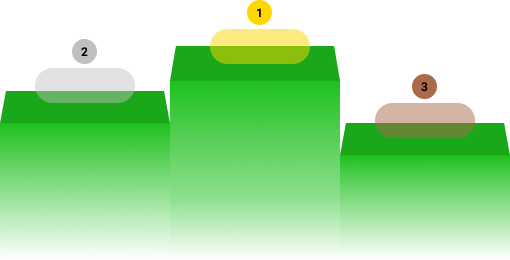
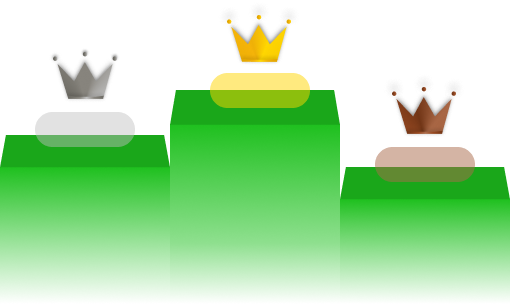
add  crown and medal in leaderboard

diff --git a/src/components/Organisms/leaderBoardReff/index.js b/src/components/Organisms/leaderBoardReff/index.js
@@ -1,57 +1,67 @@
 import React from "react";
 import charts from "../../../assets/charts.png";
+import Gold from "../../../assets/Gold.svg";
+import Silver from "../../../assets/Silver.svg";
+import Bronze from "../../../assets/Bronze.svg";
 
 function LeaderBoardReff() {
   return (
     <div className="max-w-sm mr-0  sm:flex-row sm:flex sm:justify-between sm:max-w-full sm:py-16 sm:px-8 py-4 px-4 sm:space-x-4">
       <div
-        className=" mb-12 flex-1 sm:ml-3 sm:mt-16 relative"
+        className=" flex-1  sm:ml-3  mb-12 sm:mb-0 relative"
         // style={{ position: "relative" }}
       >
-        <img src={charts} alt="charts" />
+        <img
+          src={charts}
+          alt="charts"
+          // className="flex flex-wrap content-center"
+        />
         <p
-          className="text-xs font-bold dark:text-white sm:text-sm text-black absolute top-12 mt-1 left-10 sm:left-14 sm:top-16 sm:mt-3 "
+          className="text-xs font-bold dark:text-white sm:text-sm text-black absolute top-12 mt-1 left-10 sm:left-14 sm:top-24 sm:mt-6 "
           // style={{ top: "4.8rem" }}
         >
+          ID-90800
+        </p>
+        <p className="text-xs font-bold dark:text-white sm:text-sm left-40 top-6 text-black absolute sm:top-20 sm:left-52 sm:ml-7 ">
           ID-9080
         </p>
-        <p className="text-xs font-bold dark:text-white sm:text-sm left-40 top-6 text-black absolute sm:top-9 sm:left-52 sm:ml-7 ">
-          ID-9080
-        </p>
-        <p className="text-xs font-bold dark:text-white sm:text-sm top-16 mt-3 right-10 text-black absolute sm:top-28 sm:right-44 sm:mr-1 sm:mt-0">
+        <p className="text-xs font-bold dark:text-white sm:text-sm top-16 mt-3 right-10 text-black absolute sm:top-36 sm:right-28 sm:mr-2 sm:mt-3">
           ID-9080
         </p>
       </div>
-      <div className="mb-8 flex-1 sm:ml-3  flex flex-col space-y-6  ">
+      <div className="mb-8 flex-1 sm:ml-3  flex flex-col space-y-6   ">
         <div className=" shadow-xl flex flex-row justify-between px-4 py-6 rounded-2xl bg-white dark:bg-black  mb-8 ">
           <p className="text-sm text-black dark:text-white">Ranking</p>
           <p className="text-sm text-black dark:text-white">Refferal ID</p>
           <p className="text-sm text-black dark:text-white">Total Invite</p>
         </div>
         <div className=" shadow-xl flex items-center flex-row justify-between px-4 py-2 rounded-2xl bg-white dark:bg-black ">
-          <div className="bg-gray-200 dark:bg-gray-400 rounded-full w-12 h-12">
+          {/* <div className="bg-gray-200 dark:bg-gray-400 rounded-full w-12 h-12">
             <p className="text-2xl font-bold text-green-400 text-center mt-2">
               1
             </p>
-          </div>
+          </div> */}
+          <img src={Gold} alt="Medal Gold" />
           <p className="text-sm text-black dark:text-white">ID-9080</p>
           <p className="text-sm text-black dark:text-white">2000</p>
         </div>
         <div className=" shadow-xl flex items-center flex-row justify-between px-4 py-2 rounded-2xl bg-white dark:bg-black ">
-          <div className="bg-gray-200 dark:bg-gray-400 rounded-full w-12 h-12">
+          {/* <div className="bg-gray-200 dark:bg-gray-400 rounded-full w-12 h-12">
             <p className="text-2xl font-bold text-green-400 text-center mt-2">
               2
             </p>
-          </div>
+          </div> */}
+          <img src={Silver} alt="Medal Silver" />
           <p className="text-sm text-black dark:text-white">ID-9080</p>
           <p className="text-sm text-black dark:text-white">1500</p>
         </div>
         <div className=" shadow-xl flex items-center flex-row justify-between px-4 py-2 rounded-2xl bg-white dark:bg-black ">
-          <div className="bg-gray-200 dark:bg-gray-400 rounded-full w-12 h-12">
+          {/* <div className="bg-gray-200 dark:bg-gray-400 rounded-full w-12 h-12">
             <p className="text-2xl font-bold text-green-400 text-center mt-2">
               3
             </p>
-          </div>
+          </div> */}
+          <img src={Bronze} alt="Medal Bronze" />
           <p className="text-sm text-black dark:text-white">ID-9080</p>
           <p className="text-sm text-black dark:text-white">500</p>
         </div>
